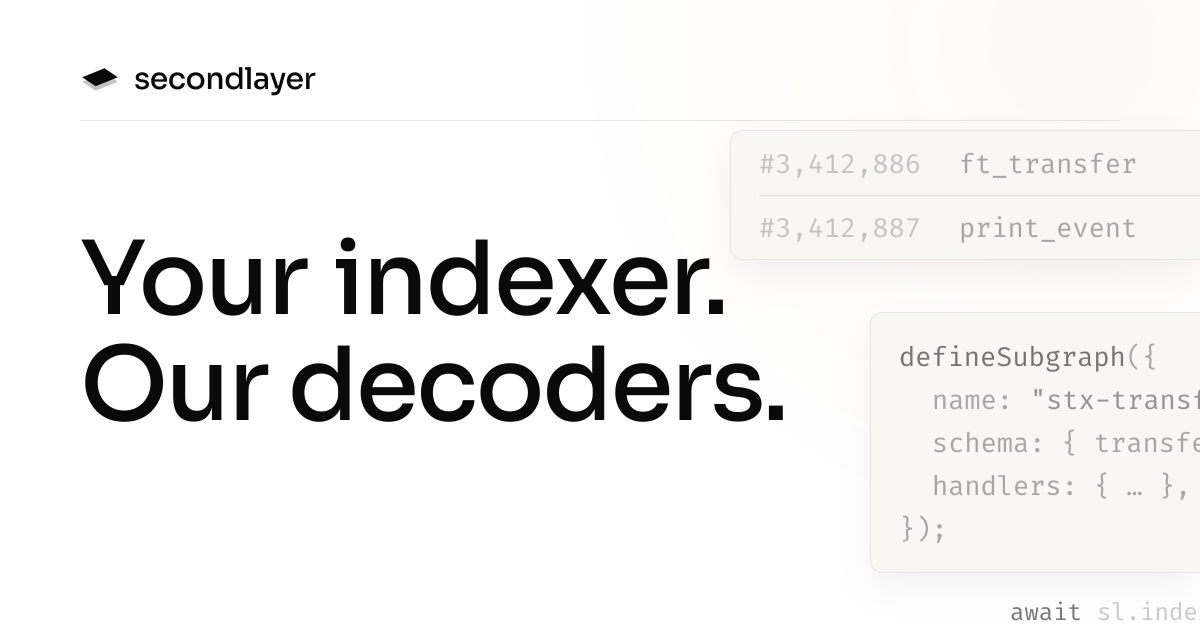
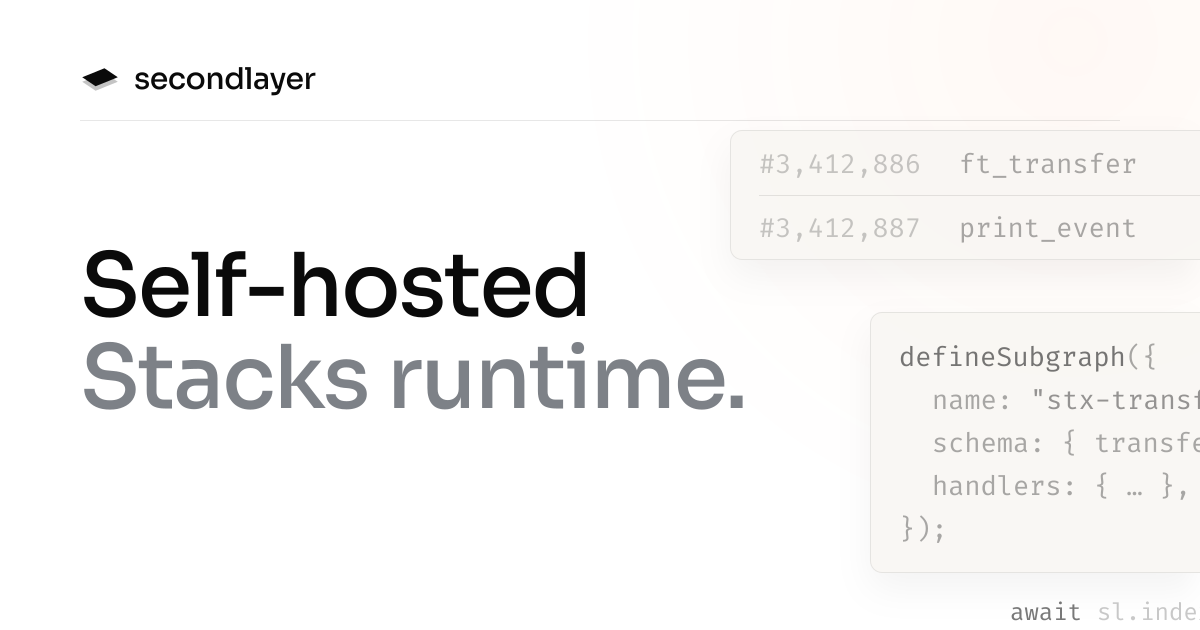
chore(web): regenerate home og card, add archive og card

Changed region(s): [[0.0617, 0.5429, 0.6783, 0.6937], [0.0617, 0.3619, 0.6167, 0.5127]]

diff --git a/apps/web/scripts/generate-og.tsx b/apps/web/scripts/generate-og.tsx
@@ -521,6 +521,59 @@ function ArtPricing() {
 	);
 }
 
+function ArtArchive() {
+	return (
+		<div
+			style={{
+				position: "absolute",
+				top: 0,
+				left: 0,
+				right: 0,
+				bottom: 0,
+				display: "flex",
+			}}
+		>
+			<Card style={{ position: "absolute", top: 140, left: 745, width: 780 }}>
+				<Line
+					tokens={[
+						["$ ", DIM],
+						["secondlayer verify all \\", BASE],
+					]}
+				/>
+				<Line
+					indent={4}
+					tokens={[
+						["--against ", KW],
+						["…/latest.json", STR],
+					]}
+				/>
+				<Line
+					tokens={[
+						["✓ ", KW],
+						["175 ranges match the archive", BASE],
+					]}
+				/>
+				<Line indent={2} tokens={[["reference signature verified", DIM]]} />
+			</Card>
+			<Card style={{ position: "absolute", top: 400, left: 950, width: 620 }}>
+				<Line tokens={[["latest.json", KW]]} />
+				<Line
+					tokens={[
+						["snapshot ", DIM],
+						["canonical-v1 · #8,748,855", BASE],
+					]}
+				/>
+				<Line
+					tokens={[
+						["sha256 ", DIM],
+						["a2c22b25…", STR],
+					]}
+				/>
+			</Card>
+		</div>
+	);
+}
+
 function ArtHome() {
 	return (
 		<div
@@ -772,10 +825,18 @@ const CARDS: CardSpec[] = [
 	{
 		file: "home.png",
 		eyebrow: null,
-		line1: "Your indexer.",
-		line2: "Our decoders.",
-		mutedLine2: false,
+		line1: "Self-hosted",
+		line2: "Stacks runtime.",
+		mutedLine2: true,
 		artifact: <ArtHome />,
+	},
+	{
+		file: "archive.png",
+		eyebrow: "ARCHIVE",
+		line1: "The verified",
+		line2: "Stacks archive.",
+		mutedLine2: true,
+		artifact: <ArtArchive />,
 	},
 	{
 		file: "streams.png",
